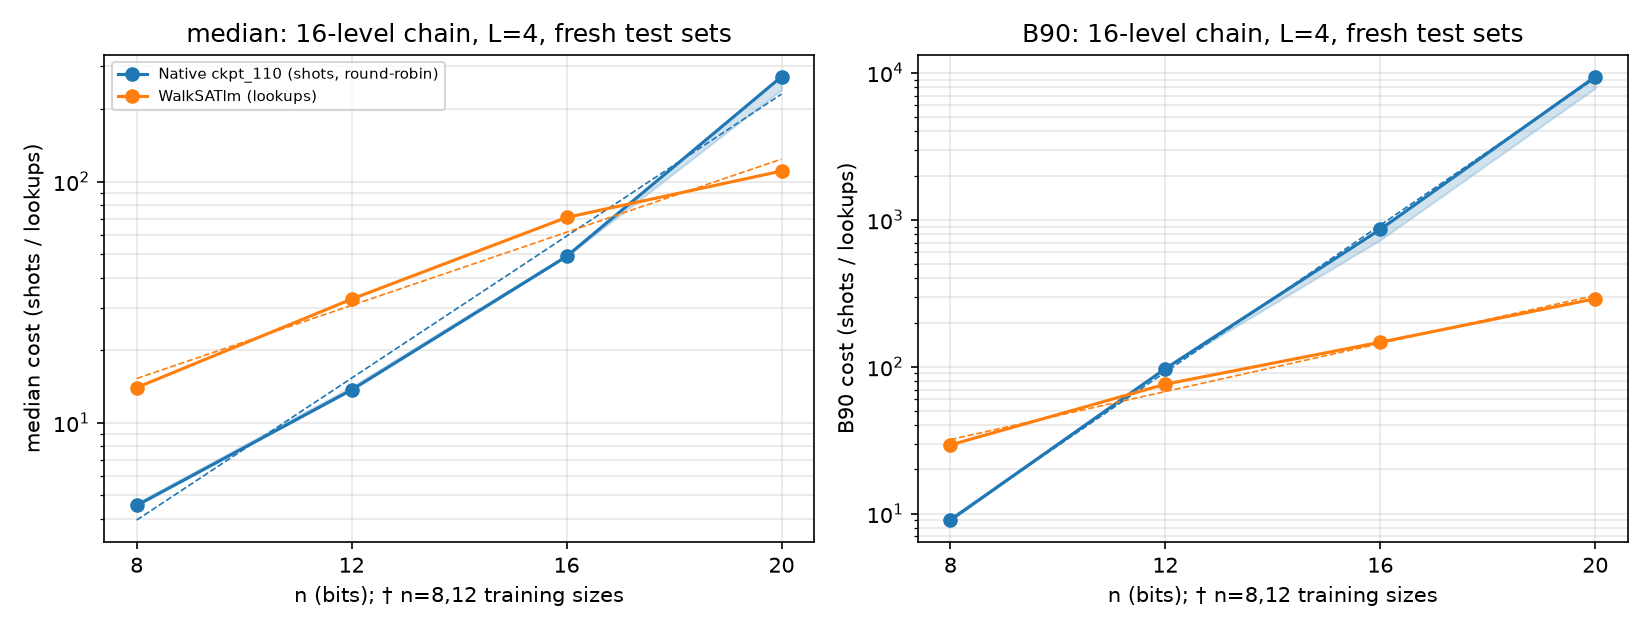
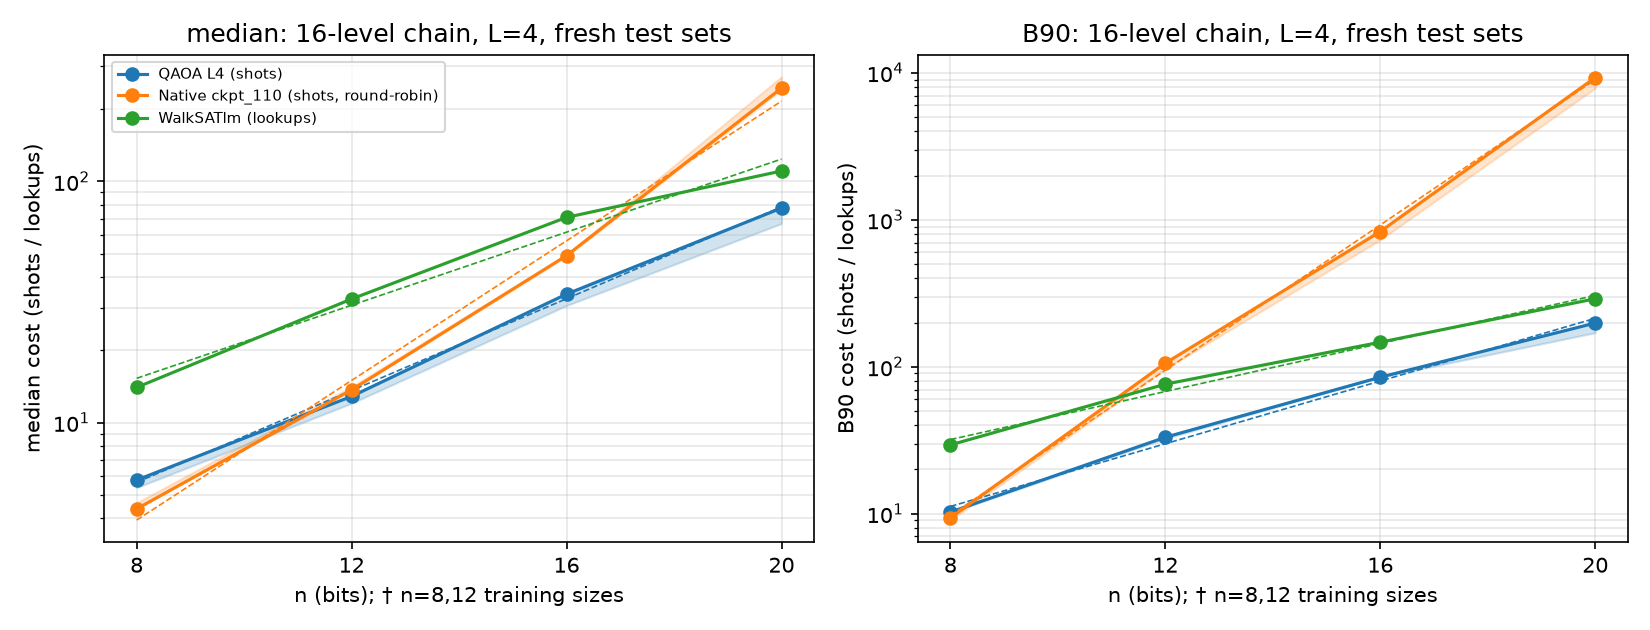
clean16 interim: QAOA L4 (3 seeds), native 3/3 seeds, WalkSATlm

diff --git a/oct_explore/results/CLEAN_SCALING_16LEVEL.md b/oct_explore/results/CLEAN_SCALING_16LEVEL.md
@@ -8,26 +8,31 @@ Cells: winner (best validation score S=(ln med+ln B90)/2 on val n=12) value, wit
 
 | method | n=8† median | n=12† median | n=16 median | n=20 median |
 |---|---|---|---|---|
-| Native ckpt_110 (shots, round-robin) | **4.54** [4.54–4.65] | **13.7** [13.7–14.1] | **48.9** [48.9–49.7] | **272** [240–272] |
+| QAOA L4 (shots) | **5.78** [5.37–5.78] | **12.8** [12–12.8] | **34.1** [30.6–34.1] | **77.6** [66.9–77.6] |
+| Native ckpt_110 (shots, round-robin) | **4.39** [4.39–4.65] | **13.7** [13.7–14.1] | **49.3** [48.9–49.7] | **244** [240–272] |
 | WalkSATlm (lookups) | **14** | **32.5** | **71** | **110** |
 
 | method | n=8† B90 | n=12† B90 | n=16 B90 | n=20 B90 |
 |---|---|---|---|---|
-| Native ckpt_110 (shots, round-robin) | **9.05** [9.05–9.42] | **97.1** [97.1–97.4] | **862** [730–862] | **9.41e+03** [7.87e+03–9.41e+03] |
+| QAOA L4 (shots) | **10.3** [10.2–10.3] | **33.1** [32.5–33.1] | **84.9** [84.9–86.1] | **198** [171–198] |
+| Native ckpt_110 (shots, round-robin) | **9.37** [9.05–9.42] | **106** [97.1–106] | **831** [730–862] | **9.28e+03** [7.87e+03–9.41e+03] |
 | WalkSATlm (lookups) | **29.4** | **76.1** | **147** | **290** |
 
 ## Growth fit cost ≈ C·bⁿ over n=8,12,16,20 (least squares on log2 cost)
 
 | method | stat | b (winner) | 95% bootstrap CI on b (test formulas) | 3-seed range of b | α=log2 b | C |
 |---|---|---|---|---|---|---|
-| Native ckpt_110 (shots, round-robin) | median | **1.403** | [1.331, 1.480] | 1.387–1.403 | 0.489 | 0.263 |
-| Native ckpt_110 (shots, round-robin) | B90 | **1.778** | [1.644, 2.051] | 1.742–1.778 | 0.830 | 0.0919 |
-| WalkSATlm (lookups) | median | **1.191** | [1.163, 1.217] | — | 0.252 | 3.78 |
-| WalkSATlm (lookups) | B90 | **1.207** | [1.172, 1.231] | — | 0.271 | 7.09 |
+| QAOA L4 (shots) | median | **1.245** | [1.212, 1.271] | 1.237–1.245 | 0.316 | 0.978 |
+| QAOA L4 (shots) | B90 | **1.278** | [1.249, 1.327] | 1.266–1.278 | 0.354 | 1.57 |
+| Native ckpt_110 (shots, round-robin) | median | **1.396** | [1.330, 1.461] | 1.387–1.403 | 0.481 | 0.274 |
+| Native ckpt_110 (shots, round-robin) | B90 | **1.766** | [1.632, 2.049] | 1.742–1.778 | 0.821 | 0.103 |
+| WalkSATlm (lookups) | median | **1.191** | [1.162, 1.215] | — | 0.252 | 3.78 |
+| WalkSATlm (lookups) | B90 | **1.207** | [1.173, 1.231] | — | 0.271 | 7.09 |
 
 ## Seed selection (validation n=12, 200 formulas)
 
-- Native ckpt_110 (shots, round-robin): winner seed 1; val med/B90 s0 15.75/90.76, s1 15.51/90.44
+- QAOA L4 (shots): winner seed 0; val med/B90 s0 13.66/30.30, s1 13.66/30.30, s2 13.24/32.41
+- Native ckpt_110 (shots, round-robin): winner seed 2; val med/B90 s0 15.75/90.76, s1 15.51/90.44, s2 15.40/84.53
 
 ## Methods, code and deviations
 
